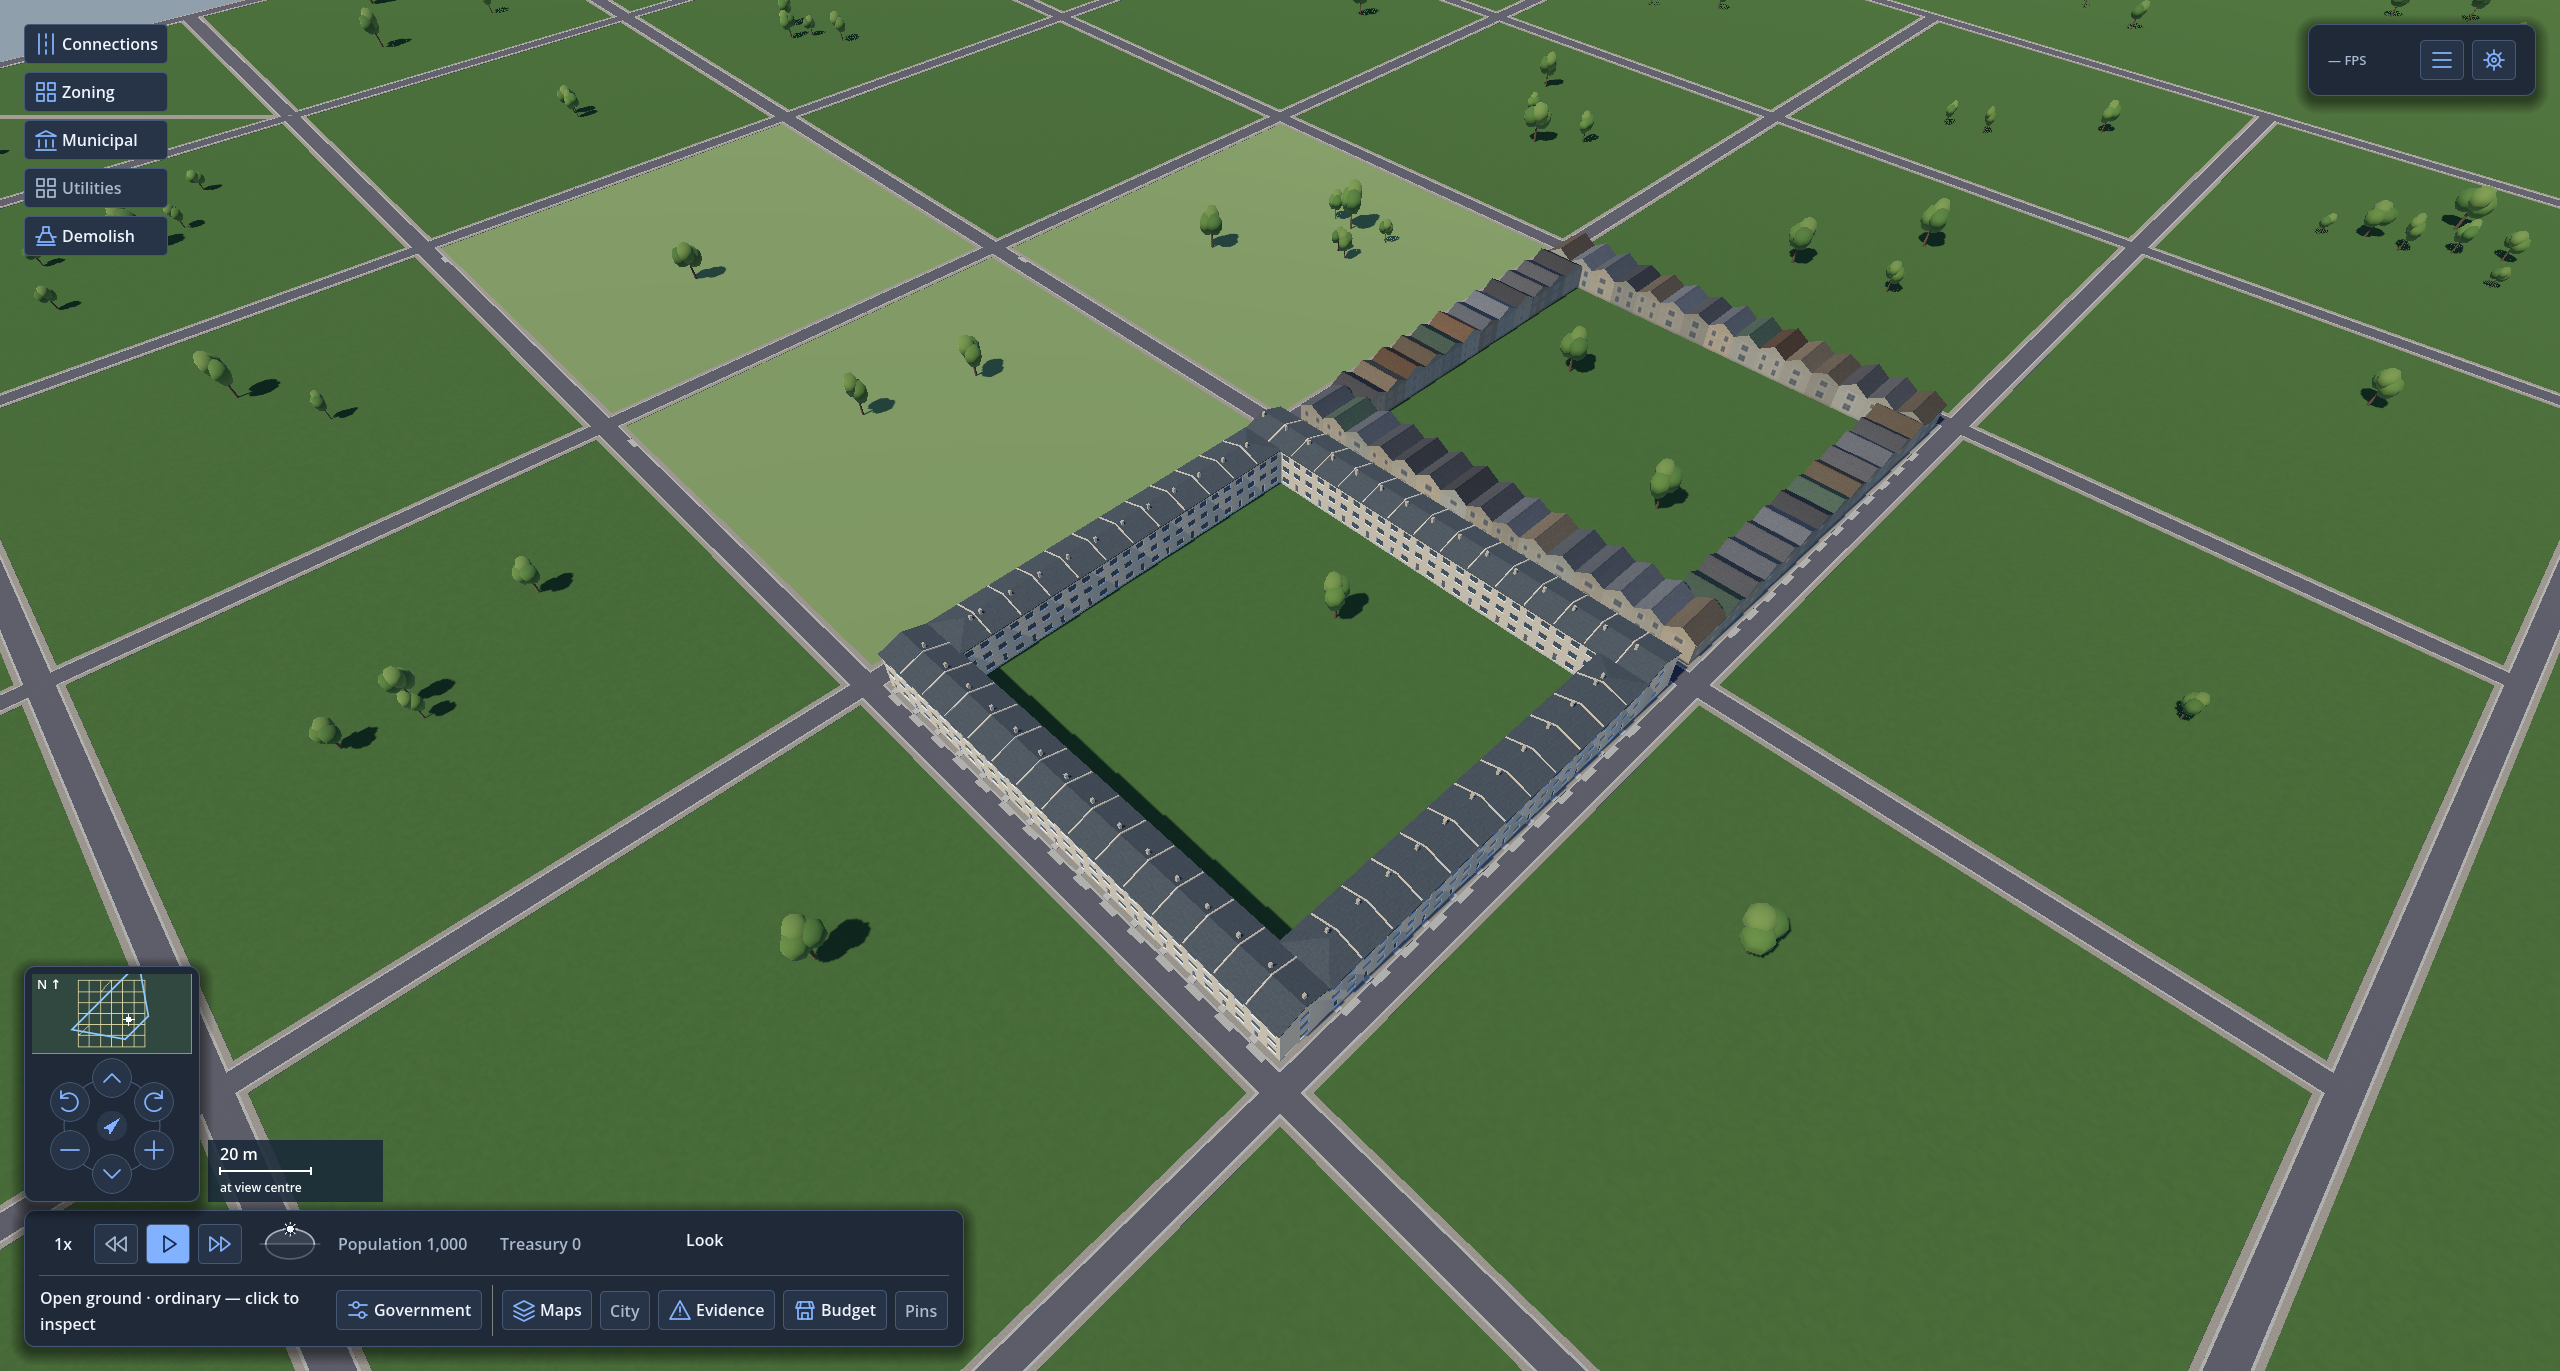
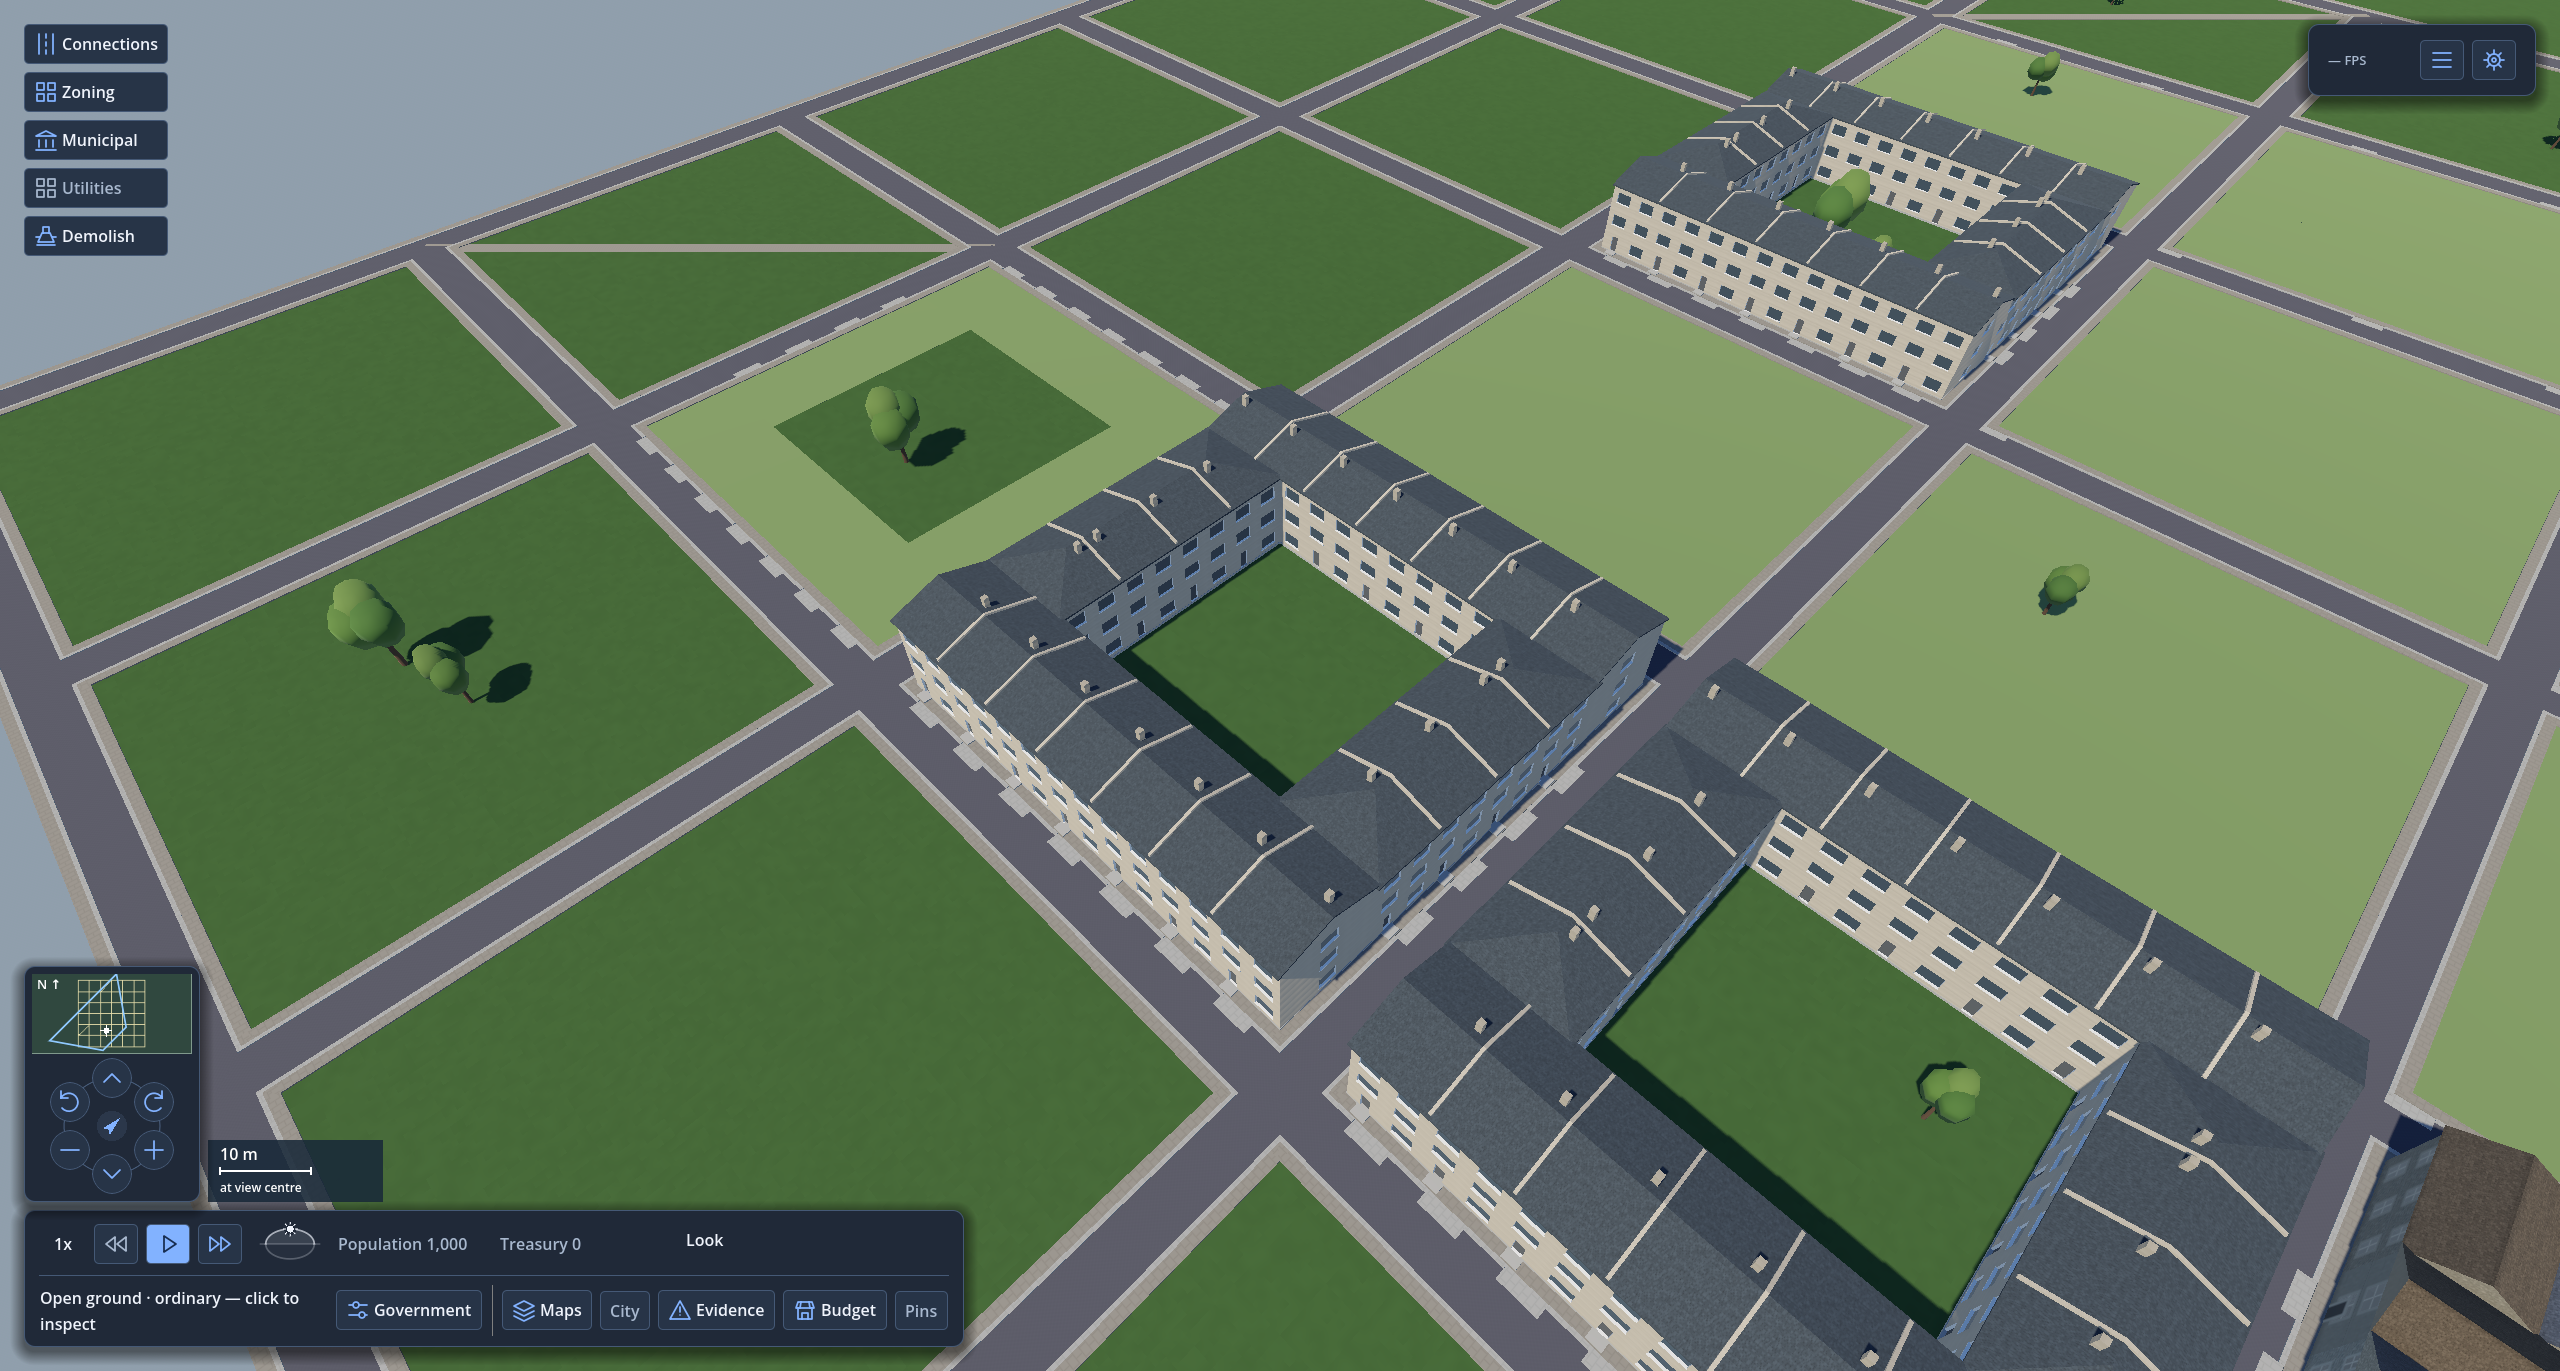
Run the rowhouse fixture's streets every 64 m
At 128 m a rowhouse block left about 100 m of open grass between the
backs of its houses. 64 m is about the depth of a real rowhouse block.
The fixture now raises 66 rowhouses round three blocks. Back gardens
need a parcel shape the lots cannot express yet, so they go on the
board as their own row.

diff --git a/plans/0000-board.md b/plans/0000-board.md
@@ -57,6 +57,7 @@ current. Existing active rows keep their scope; related candidates do not silent
 | Building construction phase | Unclaimed / design; [procedural buildings session](../research/procedural-buildings/SESSION.md#decisions) Q7 | Give a raised Building an under-construction state that cannot be occupied until finished. Its duration is a Ruleset value in game Days, tuned for play. Materials consumption may follow. It changes the State Hash deliberately, so goldens need re-recording. The drawing reserves a construction stage for scaffolding. |
 | Urban fabric: intensity independent of built form | **BLOCKED / deferred — required user playtest**; `urban-permissions`; [0062](0062-the-urban-fabric.md) | **Delivered:** geographic permissions, local vacant-Lot assembly, reader/road-edit migration, bounded housing construction for capacity shortage and saved elapsed-Tick preference mismatch, plus [playable neighbourhood and inspection UI](../examples/UrbanNeighbourhood/README.md). Working lane: 3,853 tests passed; [driven validation](urban-neighbourhood.md) showed one addition housing both seekers and construction stopping. **Blocker:** the user has only remote shell access and cannot playtest. **Scheduling:** `next` must skip fabric and its intensity/form follow-ups; select independent, unblocked work. **Unblock:** the user gains graphical access, plays the example, records a verdict on clarity and payoff, and acceptance-blocking findings are resolved. The design remains incomplete until then; automated/driven checks do not substitute. Numeric intensity caps, larger arrangements, further form controls and trade assembly remain later candidates. |
 | Building entrances and usable open ground | Deferred until the first playable / scoping; [0059 open questions](0059-the-tower.md#open), [0062](0062-the-urban-fabric.md) | Recheck entrance-to-footprint alignment after the podium change and define whether access or geometry moves. Scope the use of leftover block ground as yards, courtyards or plazas without claiming a mechanism from its appearance; keep entrance count distinct from intensity. |
+| Rowhouse back gardens | Unclaimed / design; [appearance families](appearance-families.md), entrances row above | A parcel's footprint is the parcel minus one `setback_tiles` on every side, so an attached house cannot stand at the street with ground behind it. Real rowhouse plots are about 5 × 25–35 m, with a 10–12 m house at the front and a garden behind. Decide how a parcel holds its house to the street and keeps rear ground, for example separate front and rear setbacks in `[lots]`. Decide whether the garden is simulation ground (open, unsealed, part of the Lot) or only drawn. Then draw fences and gardens in the shell. Acceptance: `rulesets/rowhouses.toml` with deep plots, gardens meeting fence to fence mid-block, and a driven capture. Any change to footprints moves the State Hash, so goldens need re-recording. Coordinate with the entrances row's yards scope. |
 | Office and agglomeration | Unclaimed / scoping; [roadmap](../docs/06-roadmap.md) | Define the export, staffing and location consequences and a playable acceptance world. |
 | Freight and Outside trade | Unclaimed / scoping; [roadmap](../docs/06-roadmap.md) | The [viability investigation](0075-base-game-ruleset-viability.md) confirms Pool purchases select city Businesses and Hinterland prices create no import supplier. The paid Outside supplier for founding is its own row above. Trace Shipments, Vehicles, payment and gate capacity, including the counterparty for Pool haulage charges. Coordinate gate changes with the Outside Connections in [0073](0073-the-city-attracts-people.md). |
 | Driver response and detailed traffic | Deferred until the first playable / design; [roadmap](../docs/06-roadmap.md) | Scope Habit, Sight, Temperament, diversion and queues; then define promotion/demotion and audit tolerances. Detailed traffic is a prerequisite for implementing fidelity transfer. |
@@ -101,7 +102,7 @@ all listed facilities are missing. Select and prioritise them alongside city sys
 | Modular kit and visual state transitions | Unclaimed / scoping; [0063](0063-the-visual-treatment-comparison.md#live-work-list) | Re-author accepted construction as frontage/storey-aware parts in Blender; test block-scale repetition, live frontage/storey edits, occupancy/abandonment and overlays. Coordinate LODs with zoom-detail work and consolidate material/export conventions after acceptance. |
 | Procedural Building generator | `procedural-buildings` branch / active; [session](../research/procedural-buildings/SESSION.md), [findings](../research/procedural-buildings/REPORT.md), [adr/0173](../docs/adr/0173-a-building-is-drawn-realistically-at-every-distance-from-its-own-facts.md) | The four REPORT §3 measurements are taken ([evidence](evidence/procedural-buildings/README.md)): shell geometry is cheap, but the whole-city opening camera runs at 12.9 fps with boxes alone, because it issues 32,184 chunk draw calls. 1024 m chunks reach 67 fps there and speed up every other view ([optimisation notes](../research/procedural-buildings/optimizations.md) #3), so 1024 m is now the default. A moving city holds 64–65 fps at the opening camera at that size. The first test street exists as monochrome Blender blockouts of pass 03's five bodies and the walk-up apartments alternative at 3.5 m storeys (`scripts/art/review.sh test-street`). The monochrome review passed on 2026-09-24 and kept 3.5 m storeys everywhere. The bodies now carry CC0 wall and roof materials at true scale, and a pitched roof is at least 18°. The reroofed rowhouses, repaired corner shopfront and solar office-warehouse passed review on 2026-09-24. Step 5 put an exact office-warehouse and a two-unit apartments study on Buildings 1 and 3 of the shopping fixture (`scripts/art/review.sh exact-bodies`). Both bodies ignore the city's paint and every overlay wash, and the office-warehouse facade lands on a dwelling ([evidence](evidence/procedural-buildings/README.md#exact-game-bodies-in-the-live-city-exact-bodies)). Overlaps the modular kit row above, which this may absorb. |
 | Moving-camera and lighting acceptance | Unclaimed / scoping; [0063](0063-the-visual-treatment-comparison.md#live-work-list) | Compare daylight/evening/night on one scene and path; inspect shimmer, transparency, shadows and transitions. Reproduce the unexplained night ground difference before treating it as a current defect; decide whether lit interiors justify night tracing. |
-| Appearance Family format and picking rule | `appearance-families` branch / active; [plan](appearance-families.md) | Style Preset TOML, reader, schema, weighted picker, headless coverage report and a `family` debug wash are built (PR #35). On `family-models`, a family's `[family.body]` generates its body at each Building's size; the office-warehouse is drawn and matches its Blender body. Next: bodies for the corridor apartments (flat parapeted roof) and rowhouses (gable), wash and paint for bodies, then chunked upload. Split out of the generator row. |
+| Appearance Family format and picking rule | `appearance-families` branch / active; [plan](appearance-families.md) | Style Preset TOML, reader, schema, weighted picker, headless coverage report and a `family` debug wash are built (PR #35). On `family-models`, a family's `[family.body]` generates its body at each Building's size; the office-warehouse is drawn and matches its Blender body. Corridor-apartment and rowhouse bodies are built on PR #42, with party walls and hipped block corners. Next: bodies for the other test-street families, wash and paint for bodies, then chunked upload. Split out of the generator row. |
 | Information tools beyond decline | Unclaimed / scoping; [0064](0064-the-information-interface.md) | Finish missing subject navigation and empty-Lot Rule-predicate explanations; preserve the no-orphan-figures contract. Scope dashboards/graphs against meaningful underlying quantities; row 30 owns sustained-failure diagnosis. |
 | Trajectory notifications and persistent Pins | Unclaimed / design; [notification design](../docs/01-player-experience.md#notification-and-what-earns-one), [0064](0064-the-information-interface.md) | Scope crossover and sustained detection, bounded event history and clickable Evidence; define Pins for Citizens, places and metrics with save/load behaviour. A current-issues list alone does not provide either outcome. |
 | Interface finish and redundant visual cues | Unclaimed / design; [0064 rows 15/18](0064-the-information-interface.md#work-queue) | Finish spacing/type acceptance, panel motion with reduced-motion behaviour, and icon/shape/label coverage. Review both themes and enlarged text at the agreed desktop sizes; do not restore retired tiny-window acceptance requirements. |

diff --git a/plans/appearance-families.md b/plans/appearance-families.md
@@ -63,7 +63,8 @@ A rowhouses Building is one house. The shell probes half a metre outside the mid
 wall; where another Building's footprint covers the probe, that wall is a party wall. A party wall
 is blank, the gable stops at it rather than overhanging, and a half-thickness upstand rises above
 it, so two neighbours make one whole upstand. `rulesets/rowhouses.toml` is the fixture: perimeter
-blocks carved into 8 × 12 m house plots with no setback. Its three denser bands admit only zone
+blocks carved into 8 × 12 m house plots with no setback. Its streets run every 64 m, about the
+depth of a real rowhouse block. Plots have no gardens yet; that is a board row. Its three denser bands admit only zone
 bit 1, which nothing builds on, so the middle of the city stays empty.
 
 `FamilyBodyBuilder` ports the vocabulary of `scripts/art/test-street.py`. The shell draws the result
@@ -77,7 +78,7 @@ in place of the massing with `ui family-bodies on`.
 | Corridor apartments at 24 × 16 m against the Blender body | Same bounds: ±12.5 m to the end-door canopies, 9.2 m to the entrance canopy, 8.06 m to the back sills, 11.4 m to the vents |
 | Live city, `shopping.toml`, 1,000 Citizens, Tick 600 | Nine generated corridor bodies at 20, 24 and 28 m. The Blender body stands at Tile 68 116 and a generated 24 × 16 m one at Tile 2084 116; captures in `plans/evidence/appearance-families/a1-body-*` from `a1-body.drive` |
 | Four attached 6 × 12 m rowhouses against the Blender row | Same bounds: ±12.2 m to the free eaves, 7.0 m to the front steps, 6.4 m to the back eaves, 10.05 m to the chimneys |
-| Live city, `rowhouses.toml`, 1,000 Citizens, Tick 600 | 54 generated rowhouses, all 8 × 12 m and three storeys, round one block: rows of 15 on the north and south faces and columns of 12 on the west and east faces. 50 share both side walls. Each row has a free end at each street corner, and each column's end houses back onto the rows and hip down to them. Captures in `plans/evidence/appearance-families/h1-body-*` from `h1-body.drive`; the Blender row is rendered by `blender-render.py` |
+| Live city, `rowhouses.toml`, 1,000 Citizens, Tick 600 | 66 generated rowhouses, all 8 × 12 m and three storeys, round three 64 m blocks. Each block has rows on its north and south faces and columns on its west and east faces. 54 share both side walls. Each row has a free end at each street corner, and each column's end houses back onto the rows and hip down to them. `h1-blocks.png`, `h1-block.png`, `h1-street.png` and `h1-garden.png`, from `h1-preview.drive`, show the current fixture. The earlier `h1-body-*` captures from `h1-body.drive`, and the corner captures, were taken when the fixture's streets ran every 128 m; the Blender row is rendered by `blender-render.py` |
 | Rowhouse side-by-side | Upstands, chimneys, steps, doors and the windowed free end match. Each house has one window size, so the narrow window over the Blender door is as wide as the other. End walls take the wall siding, not the darker end siding |
 | Corridor side-by-side | Walls, openings, canopies and roof hatch match. The two vents stand 4 m either side of the centre, where the Blender body puts them at 8 m. The ground windows sit 5 cm lower, and the back door is 10 cm taller |
 
@@ -93,8 +94,7 @@ Limits of this slice:
   spans a different stretch of the house's depth. The house then hips its roof down to that side,
   and the hip meets the row's back slope in a valley. The end has no gable wall and no upstand.
   Evidence is in `h1-corner-before.png` and `h1-corner-after.png`, taken at the south-west corner
-  of `rowhouses.toml` at 1,000 Citizens, from four sides. `h1-block.png` and `h1-street.png` show
-  the whole block and one street after the fix.
+  of `rowhouses.toml` at 1,000 Citizens, from four sides.
 - The rowhouse fixture's perimeter houses are all three storeys, since a perimeter block adds one
   storey to `house_storeys`. The family admits two and three.
 
